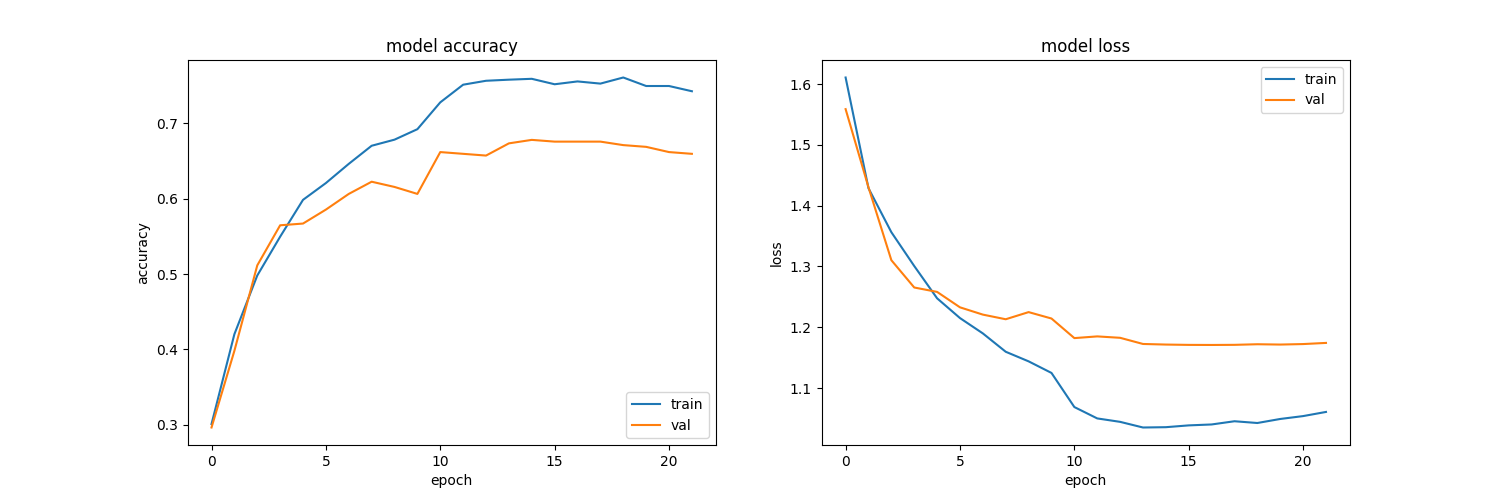
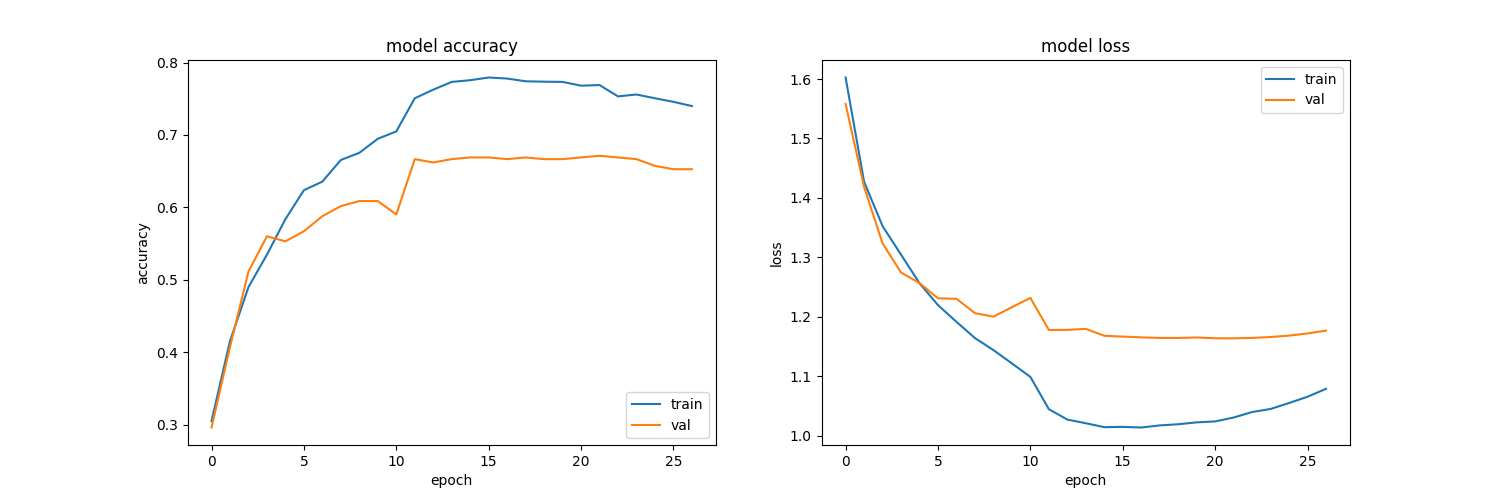
Use pre-trained ViT and fine-tune on small dataset

diff --git a/utils.py b/utils.py
@@ -15,10 +15,10 @@ np.random.seed(RANDOM_STATE)
 tf.random.set_seed(RANDOM_STATE)
 
 
-def classifier(name, params):
-    if name == 'ViT':
+def classifier(params):
+    if MODEL_NAME == 'ViT':
         return VisionTransformer(params)
-    elif name == 'FineTunedViT':
+    elif MODEL_NAME == 'FineTunedViT':
         return FineTunedVisionTransformer(params)
     return None
 
@@ -35,29 +35,39 @@ def get_label(path):
     img = cv2.imread(path, cv2.IMREAD_COLOR)
     img = cv2.resize(img, (PARAMS['IMAGE_SIZE'], PARAMS['IMAGE_SIZE']), cv2.INTER_CUBIC)
     img = img / 255.0
+    img = img.astype(np.float32)
 
-    patch_shape = (PARAMS['PATCH_SIZE'], PARAMS['PATCH_SIZE'], PARAMS['N_CHANNELS'])
-    patches = patchify(img, patch_shape, PARAMS['PATCH_SIZE'])
-    
-    # patches = np.reshape(patches, (64, 25, 25, 3))
-    # for i in range(patches.shape[0]):
-    #     cv2.imread(f'patched_image/{i}.png', patches[i])
-
-    patches = np.reshape(patches, PARAMS['FLAT_PATHCHES_SHAPE'])
-    patches = patches.astype(np.float32)
-    
     class_name = path.split('\\')[-2]
     class_idx = PARAMS['CLASS_NAMES'].index(class_name)
     class_idx = np.array(class_idx, dtype=np.int32)
 
-    return patches, class_idx
+    if MODEL_NAME == 'ViT':
+        patch_shape = (PARAMS['PATCH_SIZE'], PARAMS['PATCH_SIZE'], PARAMS['N_CHANNELS'])
+        patches = patchify(img, patch_shape, PARAMS['PATCH_SIZE'])
+        # patches = np.reshape(patches, (64, 25, 25, 3))
+        # for i in range(patches.shape[0]):
+        #     cv2.imread(f'patched_image/{i}.png', patches[i])
+        patches = np.reshape(patches, PARAMS['FLAT_PATHCHES_SHAPE'])
+        patches = patches.astype(np.float32)
+        return patches, class_idx
+    
+    elif MODEL_NAME == 'FineTunedViT':
+        return img, class_idx
+    
+    return None, None
 
 
 def parse(path):
     patches, labels = tf.numpy_function(get_label, [path], [tf.float32, tf.int32])
     labels = tf.one_hot(labels, PARAMS['N_CLASSES'])
-    patches.set_shape(PARAMS['FLAT_PATHCHES_SHAPE'])
     labels.set_shape(PARAMS['N_CLASSES'])
+    
+    if MODEL_NAME == 'ViT':
+        patches.set_shape(PARAMS['FLAT_PATHCHES_SHAPE'])
+    
+    elif MODEL_NAME == 'FineTunedViT':
+        patches.set_shape(PARAMS['IMAGE_SHAPE'])
+
     return patches, labels
 
 

diff --git a/app.py b/app.py
@@ -17,7 +17,7 @@ st.header('Image Classification using Vision Transformer')
 
 # ===================================================================================================================== #
 
-model = classifier(MODEL_NAME, PARAMS)
+model = classifier(PARAMS)
 model.load_weights(MODEL_PATH)
 optimizer = AdamW(learning_rate=PARAMS['LR'], weight_decay=PARAMS['WD'])
 loss = CategoricalCrossentropy(label_smoothing=0.2)
@@ -29,10 +29,14 @@ def predict(img_arr, model):
     img_arr = cv2.resize(img_arr, (PARAMS['IMAGE_SIZE'], PARAMS['IMAGE_SIZE']), cv2.INTER_CUBIC)
     img_arr = img_arr / 255.0
 
-    patch_shape = (PARAMS['PATCH_SIZE'], PARAMS['PATCH_SIZE'], PARAMS['N_CHANNELS'])
-    patches = patchify(img_arr, patch_shape, PARAMS['PATCH_SIZE'])
-
-    patches = np.reshape(patches, PARAMS['FLAT_PATHCHES_SHAPE'])
+    if MODEL_NAME == 'ViT':
+        patch_shape = (PARAMS['PATCH_SIZE'], PARAMS['PATCH_SIZE'], PARAMS['N_CHANNELS'])
+        patches = patchify(img_arr, patch_shape, PARAMS['PATCH_SIZE'])
+        patches = np.reshape(patches, PARAMS['FLAT_PATHCHES_SHAPE'])
+    
+    elif MODEL_NAME == 'FineTunedViT':
+        patches = img_arr
+    
     patches = patches.astype(np.float32)
     patches = np.expand_dims(patches, axis=0)
 
@@ -40,6 +44,7 @@ def predict(img_arr, model):
     class_idx = np.argmax(y_pred)
     class_prob = float(y_pred[0][class_idx])
     class_name = PARAMS['CLASS_NAMES'][class_idx]
+
     print(f'[INFO] Probability: {class_prob:4f}, Class: {class_name}')
     if class_prob < 0.65: class_name = 'unknown'
     
@@ -51,7 +56,7 @@ uploaded_file = st.file_uploader(label='')
 
 if uploaded_file is not None:
     bytes_data = uploaded_file.getvalue()
-    img_arr = np.asarray(Image.open(io.BytesIO(bytes_data)))
+    img_arr = np.asarray(Image.open(io.BytesIO(bytes_data)).convert('RGB'))
     class_name = predict(img_arr, model)
     img_arr = cv2.putText(img_arr, class_name, (25, 50), cv2.FONT_HERSHEY_SIMPLEX, 1.5, (255, 0, 0), 2, cv2.LINE_AA)
     st.image(img_arr)

diff --git a/ViT.py b/ViT.py
@@ -3,18 +3,6 @@ from tensorflow.keras.models import Model, Sequential
 from tensorflow.keras.layers import *
 from vit_keras import vit
 
-# config = {
-#     'MLP_DIMS': 3072, 
-#     'HIDDEN_DIMS': 768, 
-#     'N_HEADS': 12, 
-#     'N_PATCHES': 256, 
-#     'PATCH_SIZE': 32, 
-#     'N_CHANNELS': 3, 
-#     'N_LAYERS': 12, 
-#     'N_CLASSES': 5, 
-#     'DROP_RATE': 0.1, 
-#     'NORM_EPS': 1e-12, 
-# }
 
 class ClassToken(Layer):
     def __init__(self):
@@ -95,7 +83,6 @@ def FineTunedVisionTransformer(params):
         LayerNormalization(epsilon=params['NORM_EPS']), 
         Dense(11, activation='gelu'), 
         LayerNormalization(epsilon=params['NORM_EPS']), 
-        Dense(params['N_CLASSES'], activation='softmax'), 
-    ])
+        Dense(params['N_CLASSES'], activation='softmax')])
 
     return model

diff --git a/config.py b/config.py
@@ -1,11 +1,11 @@
 DATASET_DIR = 'data/flowers/'
 OUTPUT_DIR  = 'output'
-MODEL_NAME  = 'ViT'             # ViT or FineTunedViT
+MODEL_NAME  = 'FineTunedViT'             # ViT or FineTunedViT
 
 PARAMS = {
-    'IMAGE_SIZE': 200, 
+    'IMAGE_SIZE': 224, 
     'N_CHANNELS': 3, 
-    'PATCH_SIZE': 25, 
+    'PATCH_SIZE': 28, 
 
     'LR': 1e-4, 
     'WD': 1e-4, 
@@ -24,6 +24,8 @@ PARAMS = {
 RANDOM_STATE = 42
 
 # ===================================================================================================================== #
+
+PARAMS['IMAGE_SHAPE'] = (PARAMS['IMAGE_SIZE'], PARAMS['IMAGE_SIZE'], PARAMS['N_CHANNELS'])
 
 PARAMS['N_CLASSES'] = len(PARAMS['CLASS_NAMES'])
 PARAMS['N_PATCHES'] = PARAMS['IMAGE_SIZE']**2 // PARAMS['PATCH_SIZE']**2

diff --git a/evaluate.py b/evaluate.py
@@ -10,7 +10,7 @@ test_ds = tf_dataset(X_test, PARAMS['BATCH_SIZE'])
 y_true = [np.argmax(y_onehot) for _, labels in list(test_ds) for y_onehot in labels]
 
 # Load model and its weight
-model = classifier(MODEL_NAME, PARAMS)
+model = classifier(PARAMS)
 model.load_weights(MODEL_PATH)
 optimizer = AdamW(learning_rate=PARAMS['LR'], weight_decay=PARAMS['WD'])
 loss = CategoricalCrossentropy(label_smoothing=0.2)

diff --git a/train.py b/train.py
@@ -13,7 +13,7 @@ train_ds = tf_dataset(X_train, PARAMS['BATCH_SIZE'])
 valid_ds = tf_dataset(X_valid, PARAMS['BATCH_SIZE'])
 
 # Model
-model = classifier(MODEL_NAME, PARAMS)
+model = classifier(PARAMS)
 optimizer = AdamW(learning_rate=PARAMS['LR'], weight_decay=PARAMS['WD'])
 loss = CategoricalCrossentropy(label_smoothing=0.2)
 model.compile(loss=loss, optimizer=optimizer, metrics=['acc'])

diff --git a/README.md b/README.md
@@ -31,9 +31,11 @@ and its mechanism.
     ```
 
 ### Results
-* [Accuracy and Loss](https://github.com/ntkien2907/Image-Classification-ViT/blob/main/output/ViT_accuracy-and-loss.png)
-* [Training log](https://github.com/ntkien2907/Image-Classification-ViT/blob/main/output/ViT_log.csv)
-* [Confusion matrix](https://github.com/ntkien2907/Image-Classification-ViT/blob/main/output/ViT_confusion-matrix.csv)
+* We did two experiments: (1) training ViT from scratch, and (2) using pre-trained ViT and fine-tuning.
+* ViT trained from scratch has a quite low performance  while the results of leveraging pre-trained model are impressive.
+* You can take a look at the results:
+    * ViT from scratch: [Accuracy and Loss](https://github.com/ntkien2907/Image-Classification-ViT/blob/main/output/ViT_accuracy-and-loss.png), [Training log](https://github.com/ntkien2907/Image-Classification-ViT/blob/main/output/ViT_log.csv), and [Confusion matrix](https://github.com/ntkien2907/Image-Classification-ViT/blob/main/output/ViT_confusion-matrix.csv).
+    * ViT with pre-trained: [Accuracy and Loss](https://github.com/ntkien2907/Image-Classification-ViT/blob/main/output/FineTunedViT_accuracy-and-loss.png), [Training log](https://github.com/ntkien2907/Image-Classification-ViT/blob/main/output/FineTunedViT_log.csv), and [Confusion matrix](https://github.com/ntkien2907/Image-Classification-ViT/blob/main/output/FineTunedViT_confusion-matrix.csv).
 
 ### References
 [Dosovitskiy et al. "An Image is Worth 16x16 Words: Transformers for Image Recognition at Scale". In ICLR, 2021.](https://arxiv.org/abs/2010.11929)
